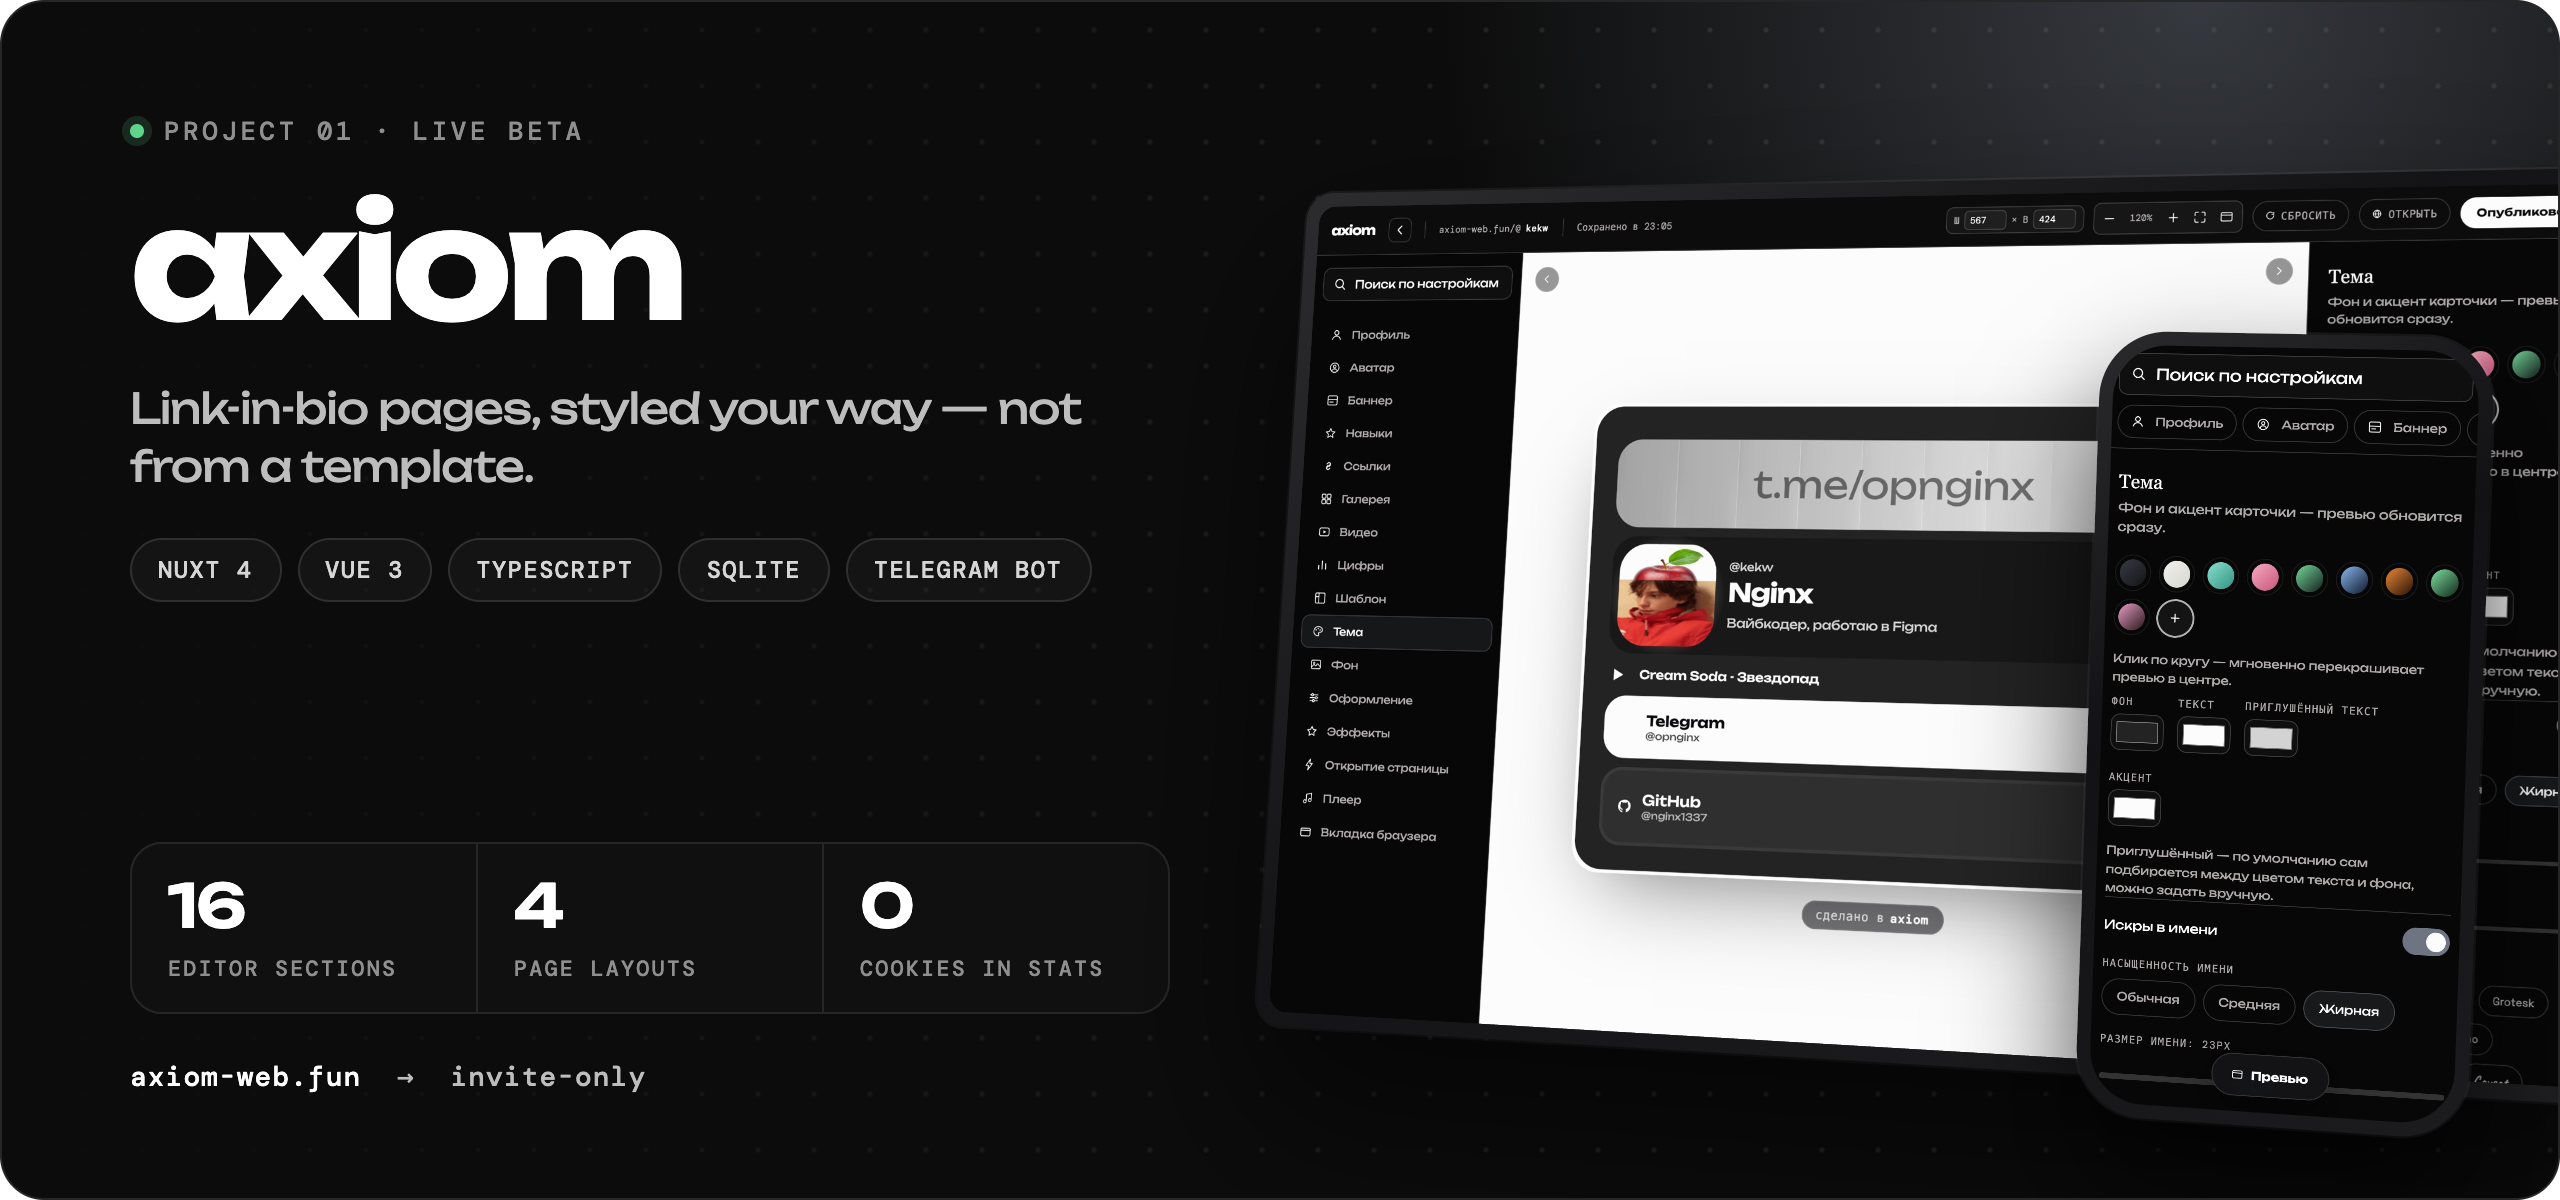
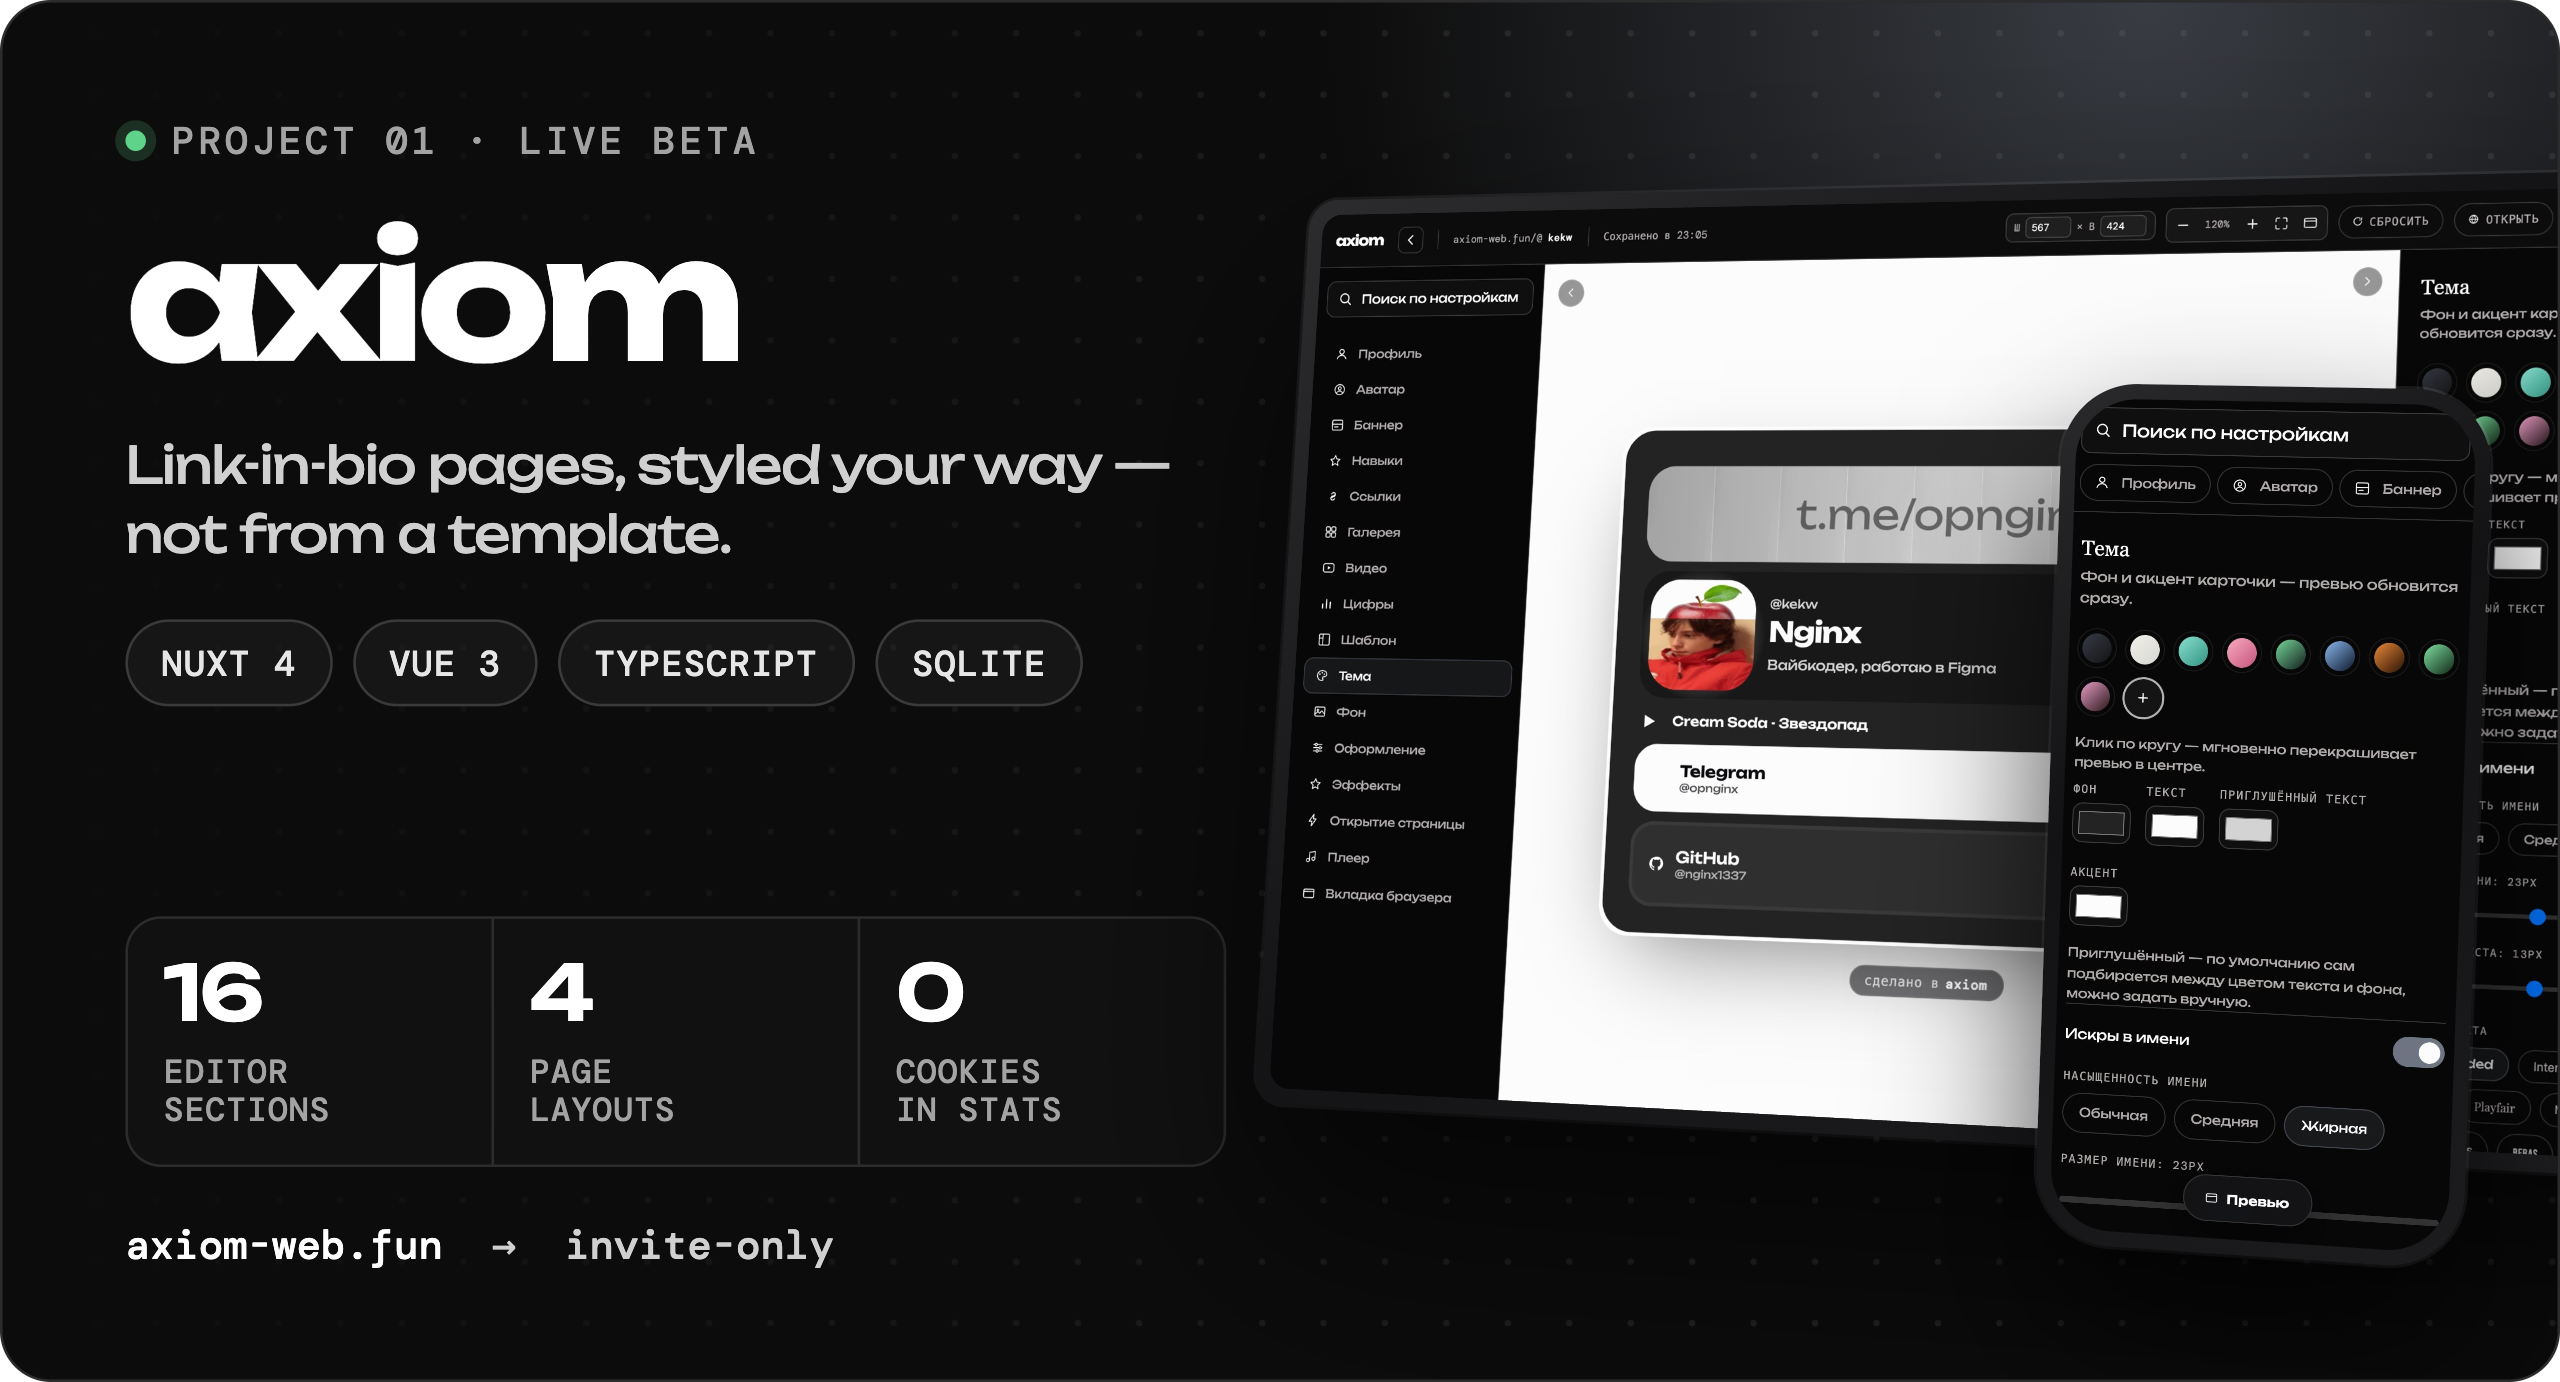
Add files via upload

diff --git a/README.md b/README.md
@@ -4,19 +4,84 @@
 </picture>
 
 <p align="center">
-  I design in Figma and ship it end to end — from the mockup to the server.<br>
-  <sub>Придумываю в Figma и собираю сам — от макета до сервера.</sub>
-</p>
-
-<p align="center">
   <a href="https://axiom-web.fun"><b>axiom-web.fun</b></a> &nbsp;·&nbsp;
   <a href="https://axiom-web.fun/@kekw">my page</a> &nbsp;·&nbsp;
   <a href="https://t.me/axiomweb">project channel</a> &nbsp;·&nbsp;
-  <a href="https://t.me/opnginx">telegram @opnginx</a>
+  <a href="https://t.me/opnginx">telegram @opnginx</a> &nbsp;·&nbsp;
+  <a href="#на-русском">на русском</a>
 </p>
 
-<a href="https://axiom-web.fun"><img src="card-axiom.png" width="100%" alt="axiom — link-in-bio pages. Nuxt 4, Vue 3, TypeScript, SQLite, Telegram bot. 16 editor sections, 4 page layouts, stats without cookies. Invite-only beta at axiom-web.fun."></a>
+## Hi, I'm nginx
+
+A vibe coder who designs in Figma and ships the result. I come up with interfaces and build them end to end — layout, frontend, backend, server and deploy. Right now I'm building my own product, **axiom**, solo, and making small tools for macOS on the side.
+
+## axiom
+
+<a href="https://axiom-web.fun"><img src="card-axiom.png" width="100%" alt="axiom — link-in-bio pages. Nuxt 4, Vue 3, TypeScript, SQLite. 16 editor sections, 4 page layouts, stats without cookies. Invite-only beta at axiom-web.fun."></a>
+
+A link-in-bio service. One link in your profile, and behind it everything you do — socials, music, video, work and contacts — styled your way instead of from a template.
+
+- **Editor** — four layouts, backgrounds, fonts, music player, video, gallery; works on desktop and phone
+- **Effects** — page entrance, custom cursors, cursor trail, click sounds
+- **Stats** — views, clicks and sources, with no cookies and no visitor tracking
+- **QR posters** of your page for stories and print
+- **Telegram bot** — sign-in alerts, weekly stats, support
+
+Access is **invite-only** for now — invites and news in [t.me/axiomweb](https://t.me/axiomweb).
+
+## SmoothScroll
 
 <a href="https://github.com/nginx1337/SmoothScroll"><img src="card-smoothscroll.png" width="100%" alt="SmoothScroll — smooth mouse-wheel scrolling for macOS 27. Swift, about 1,100 lines, no dependencies, no network, 25 tests, MIT."></a>
 
+A tiny menu bar app for macOS 27: every mouse-wheel notch turns into a smooth ease-out glide, synced to your display (60/120 Hz). Trackpads and Magic Mouse are left untouched.
+
+- **Private** — no network, no telemetry, no third-party dependencies
+- **Readable** — about 1,100 lines of Swift you can read in one sitting
+- **Tunable** — speed, smoothness, acceleration and reverse direction right in the menu
+- **Tested** — 25 unit tests for the scrolling core
+
+Source, build steps and settings — [nginx1337/SmoothScroll](https://github.com/nginx1337/SmoothScroll).
+
+## Stack
+
 <img src="card-stack.png" width="100%" alt="Stack: Figma, Nuxt 4, Vue 3, TypeScript, Swift, SQLite, nginx, Linux.">
+
+**Contact** — Telegram [@opnginx](https://t.me/opnginx)
+
+---
+
+## На русском
+
+<details>
+<summary><b>Открыть описание на русском</b></summary>
+
+### Про меня
+
+Я nginx. Вайбкодер, работаю в Figma. Придумываю интерфейсы и собираю их от начала до конца — макет, фронтенд, бэкенд, сервер и выкладка. Сейчас в одиночку делаю свой сервис **axiom**, а в свободное время — небольшие утилиты для macOS.
+
+### axiom
+
+Сервис страниц «ссылка в био». Одна ссылка в профиле, а за ней всё, что ты делаешь: соцсети, музыка, видео, работы и контакты — в оформлении под себя, а не по шаблону.
+
+- **Редактор** — четыре шаблона, фон, шрифты, плеер, видео, галерея; работает и на компьютере, и на телефоне
+- **Эффекты** — появление страницы, свои курсоры, след за курсором, звук нажатия
+- **Статистика** — просмотры, клики и источники без cookie и без слежки за посетителями
+- **Постеры** с QR-кодом страницы для сторис и печати
+- **Telegram-бот** — оповещения о входе, сводка за неделю, поддержка
+
+Доступ пока **по приглашениям** — приглашения и новости в [t.me/axiomweb](https://t.me/axiomweb).
+
+### SmoothScroll
+
+Маленькое приложение в строке меню macOS 27: каждый щелчок колёсика мыши превращается в плавный ход с замедлением в такт экрану (60/120 Гц). Трекпад и Magic Mouse не трогаются.
+
+- **Приватно** — без сети, телеметрии и сторонних зависимостей
+- **Прозрачно** — около 1100 строк на Swift, можно прочитать целиком
+- **Настраивается** — скорость, плавность, ускорение и обратное направление прямо в меню
+- **Проверено** — 25 тестов на ядро прокрутки
+
+Код, сборка и настройки — [nginx1337/SmoothScroll](https://github.com/nginx1337/SmoothScroll).
+
+**Связь** — Telegram [@opnginx](https://t.me/opnginx)
+
+</details>
